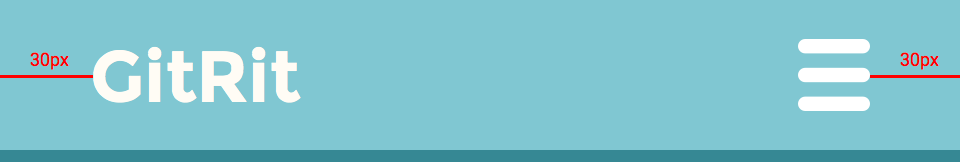
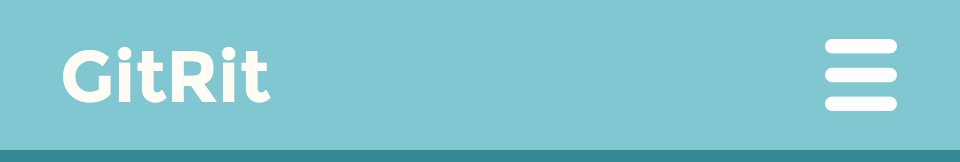
Section Styling.
Added a section to the documentation detailing styling for sections. Also slightly changed the styling of each section.

Please enter the commit message for your changes. Lines starting

diff --git a/designs/README.md b/designs/README.md
@@ -3,5 +3,40 @@ A detailed breakdown of the different designs
 
 ## Header
 ![Header](mockups/Header.png)
-![Header](mockups/Header-Desktop.png)
-This is the header of the page. The title is 30px from the left and the menu is 30px from the right. Once the device width has expanded to tablet width (768px), the menu becomes a list of links to the section. All content is vertically centered.
+ 
+**Fonts**
+
+ + _Header:_ Montserrat Bold (24px)
+ + _Navigation:_ Montserrat Regular (24px)
+
+
+**Icons**
+
+ + _Sandwich Menu:_ **24px width x 25px height** (only in mobile view)
+ 
+
+![Mobile Header](mockups/HeaderMarked.png)
+This is the header of the page. The title is **20px** from the left and the menu is **20px** from the right. 
+
+![Large Header](mockups/HeaderLarge.png)
+Once the device width has expanded to tablet width (**768px**), the menu becomes a list of links, spaced **15px** apart, to each section. All content is vertically centered.
+
+## Sections
+![Red Section](mockups/SectionRed.png)
+![Blue Section](mockups/SectionBlue.png)
+![Yellow Section](mockups/SectionYellow.png)
+![White Section](mockups/SectionWhite.png)
+ 
+**Fonts**
+
+ + _Header:_ Montserrat Bold (30px)
+ + _Body:_ Roboto Regular (13px)
+
+
+![Section Measurements](mockups/SectionWhiteMarked.png) 
+Content can be placed in different sections. Each section is described in a title, which is placed in the header section. Header text is horizontally centered and has a top and bottom margin of **24px**. The header has a bottom border that is **4px** thick. 
+
+Body contents are **24px** from the bottom of the header, **36px** from the bottom of section, and **20px** from the edges. There is a 12px spacing between pieces of content.
+
+![Section Measurements](mockups/SectionLargeMarked.png) 
+The rules for the section change when it gets large enough. When the screen expands beyond tablet view (**768px**), content is spaced **50px** from the top and bottom of the section. Content has a maximum of width of 960px and will be be horiontally centered after it reaches that point.
